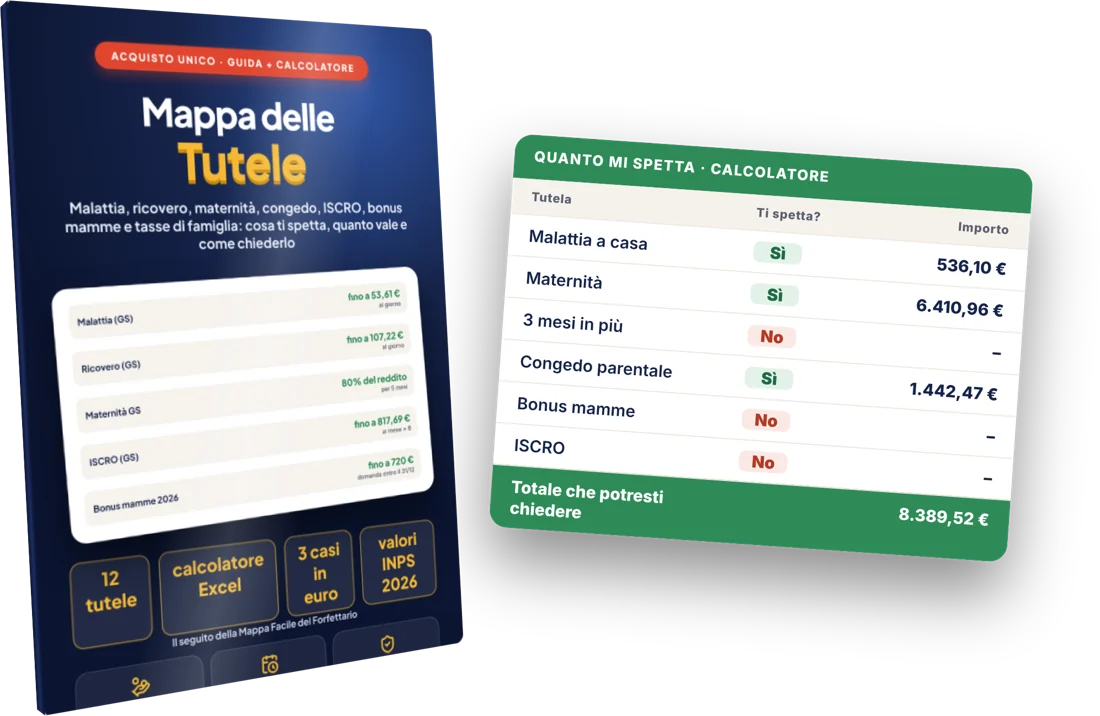
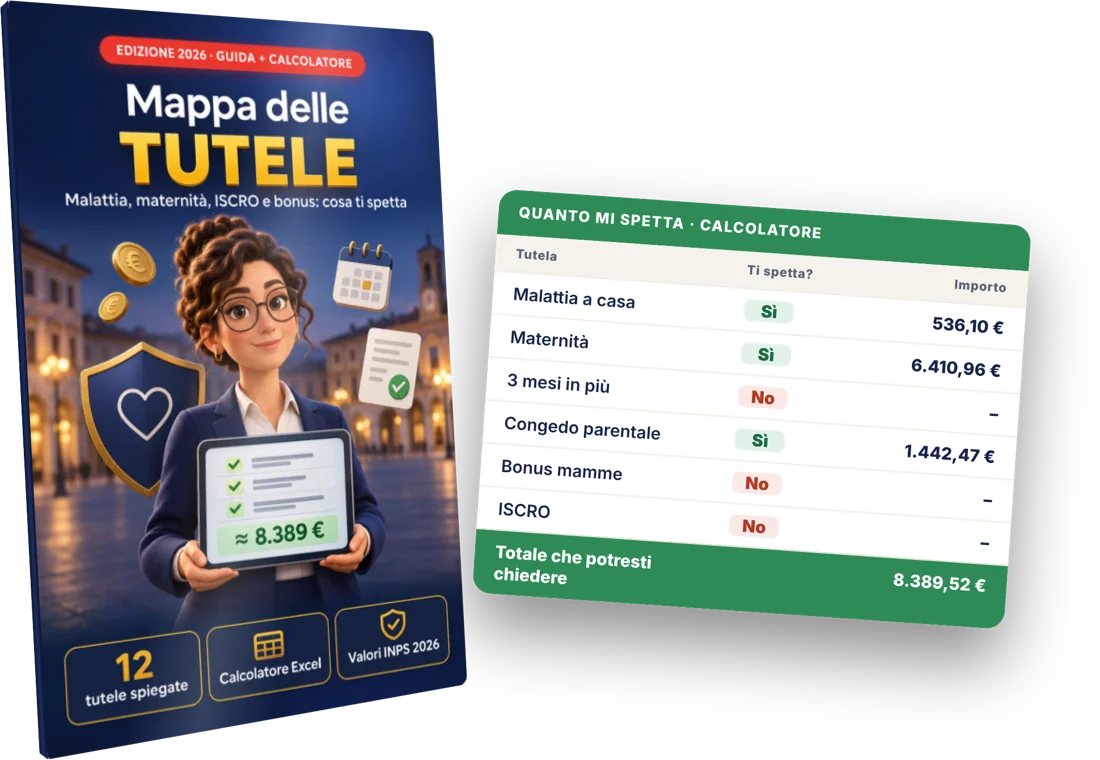
Upsell: nuova copertina della Mappa delle Tutele nel mockup hero
Claude-Session: https://claude.ai/code/session_01G62VscuhzUi7ehxGwPeDk4

diff --git a/upsell/index.html b/upsell/index.html
@@ -1,7 +1,7 @@
 <!DOCTYPE html><html lang="it"><head><meta charset="utf-8"><meta name="viewport" content="width=device-width,initial-scale=1"><meta name="robots" content="noindex,nofollow">
 <title>Aspetta: il tuo ordine non è ancora completo</title><link rel="preconnect" href="https://fonts.googleapis.com"><link rel="preconnect" href="https://fonts.gstatic.com" crossorigin>
 <link href="https://fonts.googleapis.com/css2?family=Plus+Jakarta+Sans:wght@600;700;800&family=Inter:wght@400;500;600;700&display=swap" rel="stylesheet">
-<link rel="preload" as="image" href="/upsell/img/hero.webp" fetchpriority="high"><style>
+<link rel="preload" as="image" href="/upsell/img/hero.webp?v=2" fetchpriority="high"><style>
 :root{--bg:#0A1430;--bg2:#101D40;--card:rgba(255,255,255,.05);--line:rgba(255,255,255,.1);--tx:#E9EEF8;--mut:#9AA8C3;--gr:#2E8B57;--gr2:#47D18E;--am:#F4B53F;--am2:#FAD27A;--red:#FF7A6E;--navy:#16244A}
 *{box-sizing:border-box;margin:0;padding:0}html{background:var(--bg)}
 body{font-family:Inter,system-ui,sans-serif;color:var(--tx);background:var(--bg);line-height:1.45;-webkit-font-smoothing:antialiased;overflow-x:hidden}
@@ -105,7 +105,7 @@ fbq('init','1833382634562651');fbq('track','PageView');fbq('track','ViewContent'
 <div class="hc" id="offerta">
 <h1>Sai cosa devi pagare.<em>Ora scopri cosa ti spetta.</em></h1>
 <p class="sub">Aggiungi la <b>Mappa delle Tutele del Forfettario</b> + il <b>calcolatore «Quanto mi spetta»</b>: malattia, ricovero, maternità, congedo, ISCRO e bonus mamme. <b>Chi ne ha diritto, quanto vale nel tuo caso e come chiederlo all'INPS.</b></p>
-<img class="mock" src="/upsell/img/hero.webp" width="1100" height="716" alt="La Mappa delle Tutele del Forfettario e il calcolatore Quanto mi spetta" fetchpriority="high">
+<img class="mock" src="/upsell/img/hero.webp?v=2" width="1100" height="760" alt="La Mappa delle Tutele del Forfettario e il calcolatore Quanto mi spetta" fetchpriority="high">
 <div class="meter"><div class="row"><small>Giulia · grafica in GS · aspetta un bambino</small><span class="big" id="cnt" data-end="8389">≈ 8.389 €</span></div>
 <div class="bars"><div class="bar"><b>Maternità</b><span><i data-w="100%"></i></span><em>6.411 €</em></div><div class="bar"><b>Congedo</b><span><i data-w="22.5%"></i></span><em>1.442 €</em></div><div class="bar"><b>Malattia</b><span><i data-w="8.4%"></i></span><em>536 €</em></div></div></div>
 <div class="price"><span class="now"><sup>€</sup>27</span><small><b>Pagamento unico</b>offerta di questa pagina</small></div>
